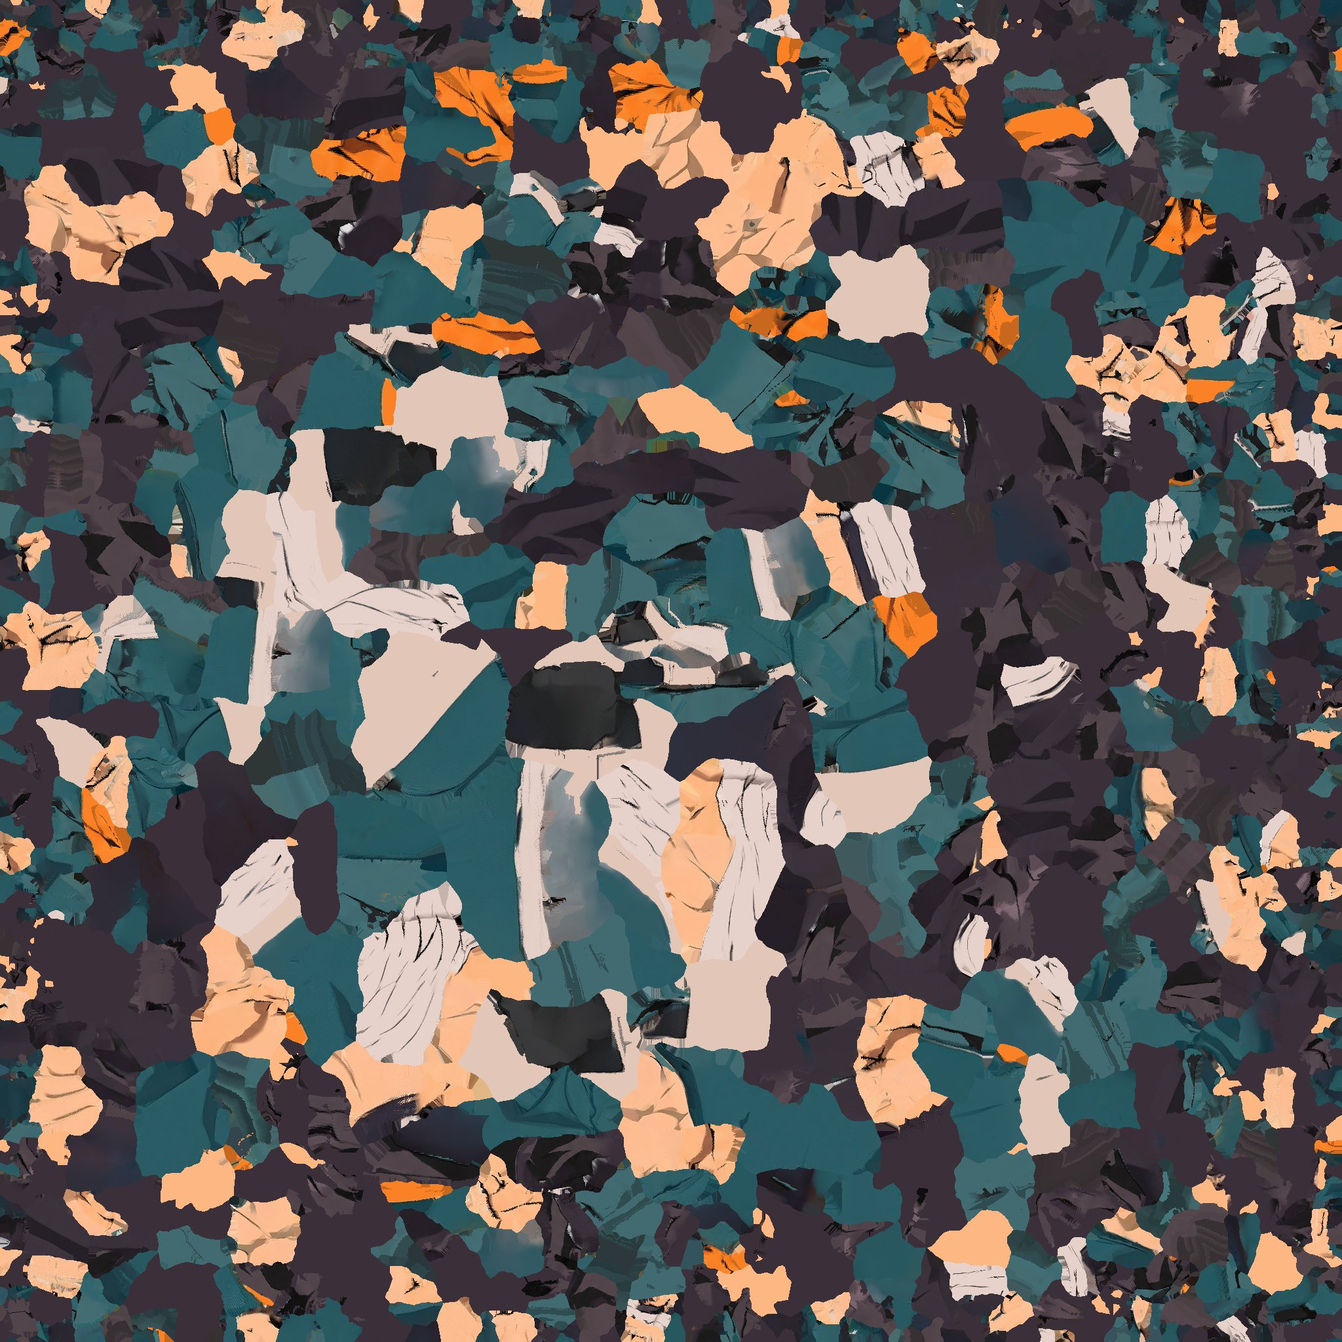
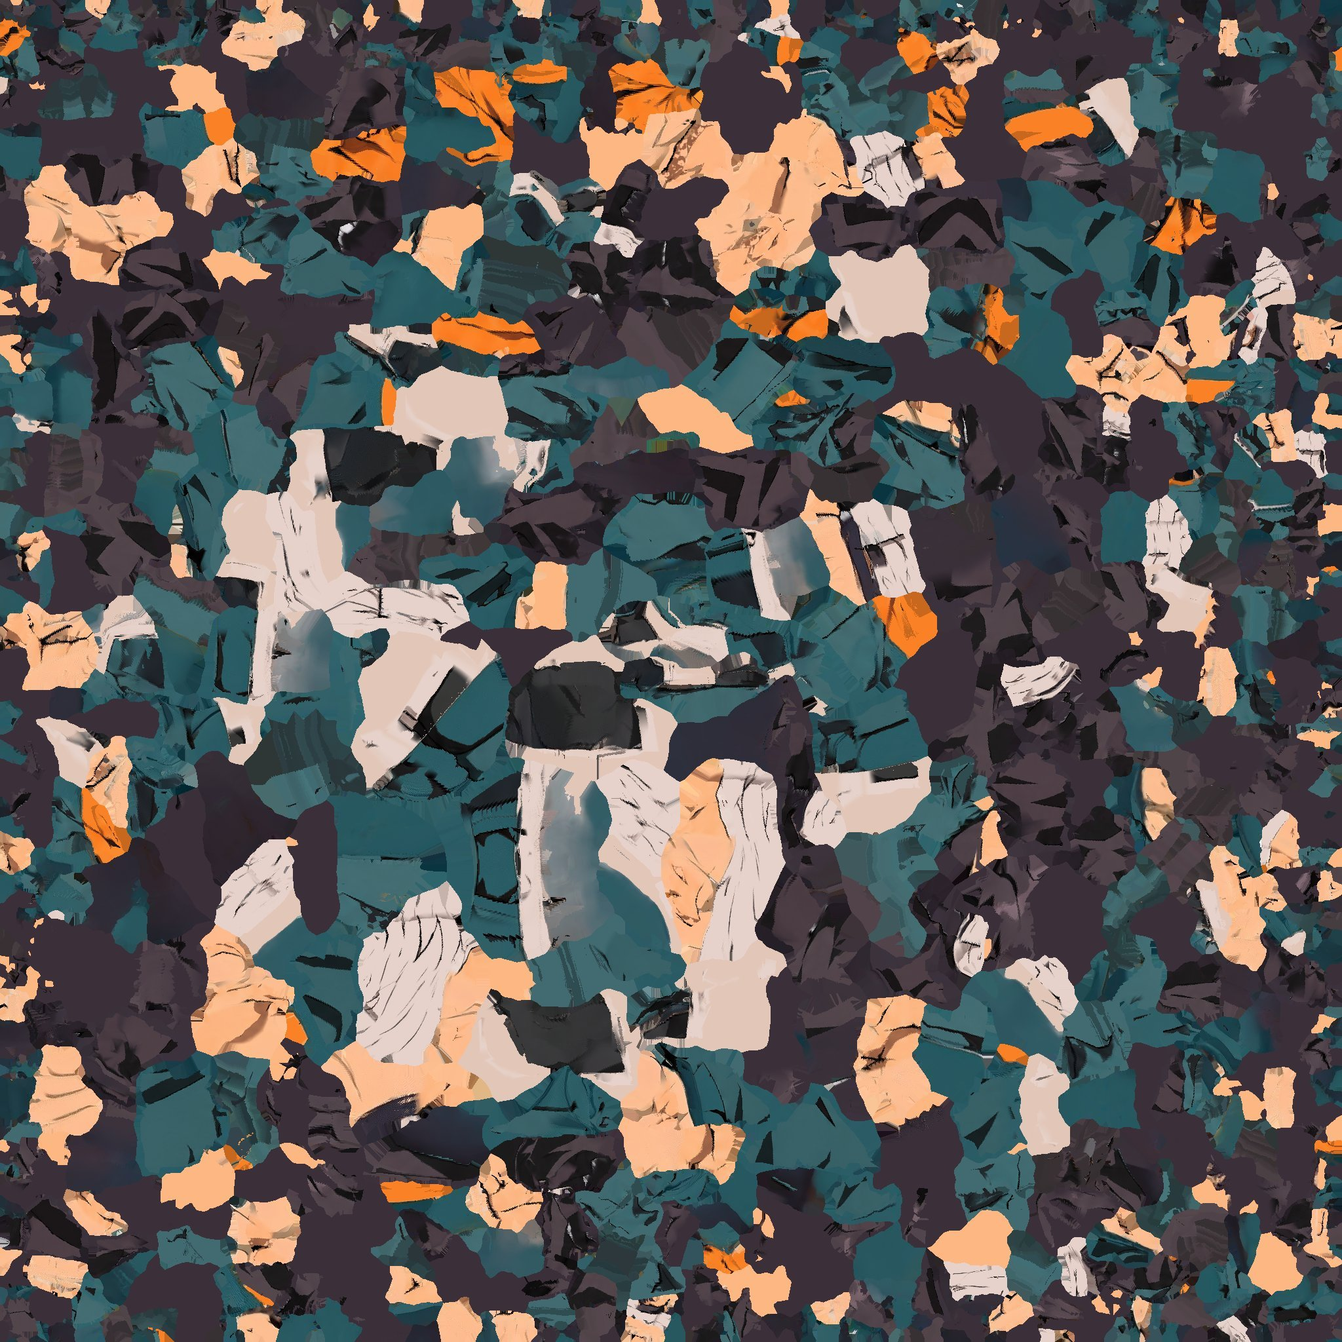
Anteprima di Ren: schiena e fianchi disegnati dai fogli del corpo
tools/paint_views.py (dopo paint_from_drawing.py): la schiena dal foglio
da dietro, i fianchi di pantaloni e stivali dai fogli di tre quarti
delle gambe, i fianchi del gilet da quelli del busto. Cambia solo la
pittura, non la forma; ogni materiale tiene il suo (le righe del foglio
solo dove il foglio mostra lo stesso materiale). Braccia, mani, testa e
fascia in vita restano come prima.

Claude-Session: https://claude.ai/code/session_014XUVKvWBodq3kjfPiKyGRo

diff --git a/tools/paint_views.py b/tools/paint_views.py
@@ -1,0 +1,181 @@
+#!/usr/bin/env python3
+"""Paints Denis's other views of Ren onto the model, after tools/paint_from_drawing.py (the front drawing) (8/11/2026,
+Denis with his body sheets: the rest of the body "disegnato come nelle immagini, senza cambiare proporzioni": only the
+paint changes, never the shape).
+
+usage: python3 tools/paint_views.py PACKAGE_DIR PAINTED.jpg [DEBUG_DIR]
+  PACKAGE_DIR  the tools/meshy_pack.py package (its bind pose: the A-pose of the drawings)
+  PAINTED.jpg  the texture paint_from_drawing.py wrote: painted over in place
+  DEBUG_DIR    (optional) each view's fit: the model's projected outline on the sheet
+
+The views (VIEWS; docs/ref/personaggi): the whole body from behind (ren_retro.png), the trousers and boots from three
+quarters each side (ren_gambe_3viste.png, its side panels), the vest's sides from three quarters (ren_busto_3viste.png;
+not the arms: drawn spread differently from the model's, their lines would land in the wrong places). Each view is the
+bind pose seen orthographically from the direction d = (sin t, 0, cos t) (t = 180: from behind), its right (cos t, 0,
+-sin t) along the sheet's columns: u = cx + s p.right, v = by - s p.y. The back view's scale and offset are fit to the
+back view's silhouette (the most vertices inside it, as the front's); the side views' (t, s, cx, by) were fit once by
+the materials (tools/paint_views.py --fit: the model drawn in its materials, correlated with the panel's) and are kept
+in VIEWS.
+
+A texel takes a view's colour where it faces that view and is seen from it (the triangle in front at its pixel, or one
+of its neighbours), blended in by how much it faces it: the back view where it faces the back (BACK_FACE); a side view
+where neither the front nor the back paints it (the front's and the back's weights, paint_from_drawing.py's and
+BACK_FACE, leave the rest), the side it faces most. Each material keeps its own (the view's colour only where the view
+shows the texel's material, its shades and folds, or one of the view's dark lines on a light material): the views'
+orange tails, light edges or trim never land on the trousers or the boots' teal. Not the head (the new head replaces
+it), the hands (drawn a little differently), the band (the drawing's band is at another height: the front's stays).
+The wraps: their warm white with the view's lines only where they face the view well (as the front's).
+"""
+import json, os, sys
+import numpy as np
+from PIL import Image, ImageDraw
+from scipy import ndimage
+
+REF = os.path.join(os.path.dirname(os.path.abspath(__file__)), '..', 'docs', 'ref', 'personaggi')
+FRONT_FACE, BACK_FACE, BACK_SKIN = (.25, .55), (.25, .55), (.5, .72)
+SIDE_FACE = (.1, .35)
+WRAP_COL, WRAP_LINE, WRAP_FACE = np.array([230., 210, 202]), 8., (.55, .75)
+BAND_Y = (1.08, 1.16)
+LINE_LUM = 45
+OTHER, SKIN, TEAL, DARK, LIGHT, ORANGE = range(6)
+# (name, sheet, panel box (px), theta (deg), scale (px/m), cx, by, part: y range (m), arms too, the materials it paints)
+VIEWS = [('back', 'ren_retro.png', None, 180., None, None, None, (-1., 9.), True, None),
+         ('legs, +x', 'ren_gambe_3viste.png', (0, 0, 500, 950), 30., 650., 267.3, 902.6, (-1., 1.06), False, (DARK, TEAL, LIGHT)),
+         ('legs, -x', 'ren_gambe_3viste.png', (1030, 0, 1536, 950), -30., 650., 242.8, 903.6, (-1., 1.06), False, (DARK, TEAL, LIGHT)),
+         ('vest, +x', 'ren_busto_3viste.png', (0, 0, 520, 795), 47.5, 815.3, 247.1, 1356., (1.02, 9.), False, (TEAL,)),
+         ('vest, -x', 'ren_busto_3viste.png', (1255, 0, 1774, 795), -47.5, 815.3, 260.1, 1356., (1.02, 9.), False, (TEAL,))]
+
+
+def classes(c):
+    """The material of each colour (n x 3): skin (with its shading), the vest's teal, dark (the trousers' purple grey, the
+    boots' black, lines), light (wraps, trim, edges), orange (the sash), other."""
+    r, g, b = c[:, 0], c[:, 1], c[:, 2]; lum = c.mean(1); out = np.full(len(c), OTHER)
+    out[(lum < 110) & (np.abs(r - b) < 40) & (g <= r + 8)] = DARK
+    out[(c.min(1) > 150) & (c.max(1) - c.min(1) < 60)] = LIGHT
+    out[(g > r + 8) & (b > r + 8)] = TEAL
+    out[(r > 110) & (r - b > 35) & (g >= .62 * r) & (c.min(1) <= 150)] = SKIN
+    out[(r > 140) & (r - b > 90) & (g < .62 * r)] = ORANGE
+    return out
+
+
+def load(pkg):
+    name = os.path.basename(os.path.normpath(pkg))
+    m = json.load(open(os.path.join(pkg, name + '.json'))); B = open(os.path.join(pkg, name + '.bin'), 'rb').read(); me = m['mesh']
+    f = lambda a, dt=np.float32: np.frombuffer(B, dt, a[1], a[0])
+    P = f(me['pos']).reshape(-1, 3).astype(np.float64); N = f(me['nor']).reshape(-1, 3).astype(np.float64); UV = f(me['uv']).reshape(-1, 2).astype(np.float64)
+    I = f(me['idx'], np.uint16 if me['verts'] < 65536 else np.uint32).reshape(-1, 3).astype(np.int64)
+    J = f(me['jnt'], np.uint8).reshape(-1, 4); W = f(me['wgt']).reshape(-1, 4)
+    bw = lambda keys: (np.isin(J, [i for i, b in enumerate(m['bones']) if any(k in b['n'] for k in keys)]) * W).sum(1)
+    return (name, P, N, UV, I, bw(('Head',)), bw(('Hand', 'Thumb', 'Index', 'Middle', 'Ring', 'Pinky')), bw(('ForeArm',)),
+            bw(('LeftArm', 'RightArm', 'ForeArm', 'Hand', 'Thumb', 'Index', 'Middle', 'Ring', 'Pinky')))
+
+
+def sheet(path, box):
+    D = np.asarray(Image.open(path).convert('RGB')).astype(np.float64)
+    bg = D[5:40, 5:40].reshape(-1, 3).mean(0)
+    if box: x0, y0, x1, y1 = box; D = D[y0:y1, x0:x1]
+    mask = ndimage.binary_opening(np.abs(D - bg).sum(2) > 30, iterations=1)
+    lab, n = ndimage.label(mask); sz = ndimage.sum(mask, lab, range(1, n + 1)); mask = np.isin(lab, np.nonzero(sz > 2000)[0] + 1)
+    _, (iy, ix) = ndimage.distance_transform_edt(~mask, return_indices=True)
+    return D, mask, D[iy, ix]   # (outside the figure: the nearest drawn colour)
+
+
+def fit_back(P, mask):
+    """The back view: (share inside, scale px/m, cx, by), the most vertices inside its silhouette."""
+    ys, xs = np.nonzero(mask); feet, top, mid = ys.max(), ys.min(), (xs.min() + xs.max()) / 2
+    s0 = (feet - top) / (P[:, 1].max() - P[:, 1].min()); best = None; H, Wd = mask.shape
+    for ds in np.arange(-.04, .041, .01):
+        for dx in range(-12, 13, 3):
+            for dy in range(-12, 13, 3):
+                s = s0 * (1 + ds); u, v = mid + dx - P[:, 0] * s, feet + dy - P[:, 1] * s
+                score = mask[np.clip(v.round().astype(int), 0, H - 1), np.clip(u.round().astype(int), 0, Wd - 1)].mean()
+                if best is None or score > best[0]: best = (score, s, mid + dx, feet + dy)
+    return best
+
+
+def axes(theta):
+    t = np.radians(theta); return np.array([np.cos(t), 0, -np.sin(t)]), np.array([np.sin(t), 0, np.cos(t)])
+
+
+def seen_ids(P, I, sel, u, v, depth, H, Wd):
+    """The triangle in front at each pixel (-1: none): the selected triangles drawn far to near."""
+    idimg = Image.new('RGB', (Wd, H), (0, 0, 0)); dr = ImageDraw.Draw(idimg)
+    idx = np.nonzero(sel)[0]
+    for k in idx[np.argsort(depth[I[idx]].mean(1))]:
+        c = k + 1; dr.polygon([(u[q], v[q]) for q in I[k]], fill=(c & 255, (c >> 8) & 255, (c >> 16) & 255))
+    a = np.asarray(idimg).astype(np.int64); return a[..., 0] + (a[..., 1] << 8) + (a[..., 2] << 16) - 1
+
+
+def main(pkg, painted, debug=None):
+    name, P, N, UV, I, HEADW, HANDW, FOREW, ARMW = load(pkg)
+    TEX = np.asarray(Image.open(painted).convert('RGB')).astype(np.float64); TS = TEX.shape[0]
+    # the texels: their triangle, barycentrics, 3D point and normal
+    uvimg = Image.new('RGB', (TS, TS), (0, 0, 0)); dr = ImageDraw.Draw(uvimg)
+    for k, t in enumerate(I):
+        c = k + 1; dr.polygon([(UV[q, 0] * TS, UV[q, 1] * TS) for q in t], fill=(c & 255, (c >> 8) & 255, (c >> 16) & 255))
+    ua = np.asarray(uvimg).astype(np.int64); tid = ua[..., 0] + (ua[..., 1] << 8) + (ua[..., 2] << 16) - 1
+    ys, xs = np.nonzero(tid >= 0); ks = tid[ys, xs]
+    A = UV[I[ks, 0]] * TS; Bv = UV[I[ks, 1]] * TS; C = UV[I[ks, 2]] * TS; px = np.stack([xs + .5, ys + .5], 1)
+    v0 = Bv - A; v1 = C - A; v2 = px - A
+    d00 = (v0 * v0).sum(1); d01 = (v0 * v1).sum(1); d11 = (v1 * v1).sum(1); d20 = (v2 * v0).sum(1); d21 = (v2 * v1).sum(1)
+    den = d00 * d11 - d01 * d01; den[np.abs(den) < 1e-12] = 1e-12
+    bv = (d11 * d20 - d01 * d21) / den; bw_ = (d00 * d21 - d01 * d20) / den
+    bary = np.clip(np.stack([1 - bv - bw_, bv, bw_], 1), 0, 1); bary /= bary.sum(1, keepdims=True)
+    pos = (P[I[ks]] * bary[..., None]).sum(1); nor = (N[I[ks]] * bary[..., None]).sum(1); nor /= np.maximum(np.linalg.norm(nor, axis=1, keepdims=True), 1e-9)
+    from collections import defaultdict
+    vt = defaultdict(set)
+    for k, t in enumerate(I):
+        for q in t: vt[q].add(k)
+    sm = lambda x, a, b: (lambda t: t * t * (3 - 2 * t))(np.clip((x - a) / (b - a), 0, 1))
+    at = lambda W_: (W_[I[ks]] * bary).sum(1)
+    hw, hdw, fw, aw = at(HEADW), at(HANDW), at(FOREW), at(ARMW)
+    skip = (hw > .5) | (hdw > .5) | ((pos[:, 1] > BAND_Y[0]) & (pos[:, 1] < BAND_Y[1]))
+    t0 = TEX[ys, xs]; ct = classes(t0); wrap = (np.abs(t0 - WRAP_COL).max(1) < 30) & ((fw > .5) | (pos[:, 1] < .32))
+    skt = ct == SKIN
+    out = TEX.copy(); w_front = sm(nor[:, 2], *FRONT_FACE); w_back = sm(-nor[:, 2], *BACK_FACE)
+    side_best = np.full(len(ks), -1.); side_col = np.zeros((len(ks), 3)); side_w = np.zeros(len(ks))
+    for vname, sh, box, theta, s, cx, by, (ylo, yhi), arms, mats in VIEWS:
+        D, mask, Dfill = sheet(os.path.join(REF, sh), box); H, Wd = mask.shape
+        r, d = axes(theta)
+        if s is None:
+            score, s, cx, by = fit_back(P, mask) if theta == 180 else (None,) * 4
+            print('%s: fit %.1f%% of the vertices inside, %.1f px/m' % (vname, 100 * score, s))
+        u, v = cx + s * (P @ r), by - s * P[:, 1]; depth = P @ d
+        part_t = (P[I][:, :, 1] > ylo).any(1) & (P[I][:, :, 1] < yhi).any(1) & ((ARMW[I] < .5).all(1) | arms)
+        seen = seen_ids(P, I, np.ones(len(I), bool) if theta == 180 else part_t | ((ARMW[I] >= .5).any(1)), u, v, depth, H, Wd)
+        if debug:
+            sil = seen >= 0; edge = sil & ~ndimage.binary_erosion(sil, iterations=2); o = D.copy(); o[edge] = (255, 0, 0)
+            os.makedirs(debug, exist_ok=True); Image.fromarray(o.astype(np.uint8)).save(os.path.join(debug, vname.replace(', ', '_').replace('+', 'p').replace('-', 'm') + '.png'))
+        pu = cx + s * (pos @ r); pv = by - s * pos[:, 1]
+        pui = np.clip(pu.round().astype(int), 0, Wd - 1); pvi = np.clip(pv.round().astype(int), 0, H - 1)
+        inside = (pu >= 0) & (pu < Wd) & (pv >= 0) & (pv < H)
+        fid = seen[pvi, pui]; vis = (fid == ks) & inside
+        for j in np.nonzero(~vis & (fid >= 0) & inside)[0]:
+            if fid[j] in vt[I[ks[j], 0]] or fid[j] in vt[I[ks[j], 1]] or fid[j] in vt[I[ks[j], 2]]: vis[j] = True
+        face = nor @ d
+        inpart = (pos[:, 1] > ylo) & (pos[:, 1] < yhi) & ((aw < .5) | arms) & (np.isin(ct, mats) if mats else True)
+        col = Dfill[pvi, pui]; cs = classes(col)
+        same = (ct == cs) | ((cs == DARK) & (col.mean(1) < LINE_LUM) & np.isin(ct, (SKIN, TEAL, ORANGE)))
+        acc = np.zeros((TS, TS)); cnt = np.zeros((TS, TS)); acc[ys, xs] = same; cnt[ys, xs] = 1
+        accs = ndimage.gaussian_filter(acc, 1.) / np.maximum(ndimage.gaussian_filter(cnt, 1.), 1e-6)   # (no speckle at the materials' edges)
+        keep_ = np.where(wrap, 1., np.clip((accs[ys, xs] - .5) * 3 + .5, 0, 1))
+        keepl = np.clip((WRAP_COL.mean() - col.mean(1) - WRAP_LINE) / (WRAP_COL.mean() - 110), 0, 1) * sm(face, *WRAP_FACE)
+        new = np.where(wrap[:, None], WRAP_COL * (1 - keepl[:, None]) + col * keepl[:, None], col)
+        if theta == 180:
+            w = sm(face, *BACK_FACE) * vis * ~skip * keep_; w[skt] *= sm(face[skt], *BACK_SKIN)
+            out[ys, xs] = out[ys, xs] * (1 - w[:, None]) + new * w[:, None]
+            print('%s: %d texels painted (%d facing it well); %d left as they were (another material there)' % (
+                vname, int((w > 0).sum()), int((w > .5).sum()), int((~same & (sm(face, *BACK_FACE) * vis > .5)).sum())))
+        else:   # (the side it faces most, where neither the front nor the back paints)
+            w = np.clip(1 - w_front - w_back, 0, 1) * sm(face, *SIDE_FACE) * vis * inpart * ~skip * keep_
+            better = (face > side_best) & (w > 0)
+            side_best[better] = face[better]; side_col[better] = new[better]; side_w[better] = w[better]
+            print('%s: %d texels it sees best (%d of them well)' % (vname, int(better.sum()), int((better & (w > .5)).sum())))
+    sw = side_w[:, None]; out[ys, xs] = out[ys, xs] * (1 - sw) + side_col * sw
+    print('sides: %d texels painted (%d well)' % (int((side_w > 0).sum()), int((side_w > .5).sum())))
+    Image.fromarray(np.clip(out, 0, 255).round().astype(np.uint8)).save(painted, quality=85, optimize=True)   # (as paint_from_drawing.py)
+
+
+if __name__ == '__main__':
+    if len(sys.argv) not in (3, 4): sys.exit(__doc__)
+    main(*sys.argv[1:])

diff --git a/docs/HANDOFF.md b/docs/HANDOFF.md
@@ -145,6 +145,7 @@ Cose notate nelle revisioni; non costruirle finché Denis non lo chiede.
   - Capelli sul viso (8/11, versione 39; Denis: "ora fai come si deve i capelli", poi "intendevo i capelli in faccia, quelli sopra vanno bene così"): confrontata di fronte la testa col foglio (pixel di capelli nel foglio dove la testa mostrava pelle: 13,5 cm², ora 4 cm²), alla frangia dal foglio mancavano le ciocche che le regole della maschera scartavano: la parte bassa della ciocca lunga tra gli occhi (scende fino al ponte del naso, come nel foglio), la ciocca sopra la metà esterna del sopracciglio destro e quelle sopra la fine del sopracciglio sinistro. Ora `ren_fringe.py` le prende da poligoni messi a mano sul foglio (`EXTRA_LOCKS`, in pixel della vista di fronte; dentro, solo i colori dei capelli del foglio). La fronte sotto le ciocche (vista di lato, nello spazio tra le ciocche e la pelle) è dipinta col nero d'ombra dei capelli (`UNDER_LOCKS`), non più pelle. Corretta anche una macchia color pelle a V sulla nuca: la pittura della fronte dal foglio prendeva anche i triangoli del retro della testa visti attraverso il buco tra le sopracciglia (`BACK`: niente più di 1 cm dietro il viso). Provati e scartati: i capelli sopra coi 3 toni piatti del foglio calcolati dalla forma (ombre sotto le ciocche e luce dall'alto, `ren_hair.py` tenuto fuori dal repository: Denis voleva solo quelli sul viso); poligoni per le ciocche delle tempie giù lungo le guance (il cuscinetto, piatto, di tre quarti diventava una striscia). Cuscinetto: 5.648 triangoli (prima 3.508); tempo per fotogramma in software 59,6 ms contro 60,0 della versione 38 (nel rumore, 6 misure alternate).
   - Viso di lato omogeneo (8/11, versione 40; Denis sulla 39, con le zone cerchiate: "di lato vedo che il viso si deforma, non va bene, deve essere omogeneo"): di tre quarti la sagoma della guancia lontana aveva una gobba e una tacca accanto all'occhio (con il contorno nero a scalini), e sulle tempie c'erano strisce. Causa: le ciocche che Meshy aveva steso piatte sulle tempie erano state affondate di 12 mm sotto la pelle (`temple_locks`, notte dell'8/11), e i triangoli tra i punti affondati e quelli rimasti erano lunghi fino a 4 cm e ripiegati verso l'interno. Ora `temple_smooth()` in `ren_head.py` (`TEMPLE_SMOOTH`): i punti di quelle ciocche e quelli intorno (2 giri di vicini dentro `TEMPLE` allargato di 8 mm, `TEMPLE_GROW`, `TEMPLE_RINGS`; non gli occhi) sono rimessi con un riempimento biarmonico sulla mesh a partire dai punti intorno, che restano fermi: la tempia è una superficie liscia che si raccorda con guancia, orecchio e capelli, senza pieghe; la sua pittura resta pelle (`temples()`). Provato e scartato: allargare la zona fino al sopracciglio dietro la coda dell'occhio (`TEMPLE_UP`): le ciocche che pendono davanti alla tempia venivano dipinte a pezzi color pelle. Stessi vertici; tempo per fotogramma 61,3 ms contro 62,5 della versione 39 (nel rumore).
   - Colletto dietro il collo (8/11, versione 41; Denis: "il suo vestito da dietro il collo si stacca"): il bordo basso del colletto della testa nuova sta in media 1 cm sopra il gilet del corpo, e sotto la testa i triangoli del corpo sono nascosti: dall'alto e da dietro, fra i due, si vedeva dentro il corpo (un buco nero sotto il colletto) e la fascia bassa del colletto, frastagliata, nel teal della testa, stava sul gilet. Ora `tools/ren_collar.py` (chiamato da `ren_head.py` alla fine): una gonnellina dal bordo basso della testa (sotto 1,50 m) al punto più vicino del gilet rimasto, 1,5 mm sotto la sua superficie (dove c'è il gilet lo copre, dove c'è un buco lo chiude), in un colore piatto (`SKIRT_RGB`, il teal del gilet come lo mostra la sua luce cartoon: la testa ha luce piatta) preso da un blocco della texture fuori da ogni pezzo (dipinto dopo il riempimento dei bordi; abbastanza grande che il JPEG non ne cambi il colore); e i texel della testa a meno di 1 cm dal gilet prendono la pittura del gilet in quel punto (`<nome>_painted.jpg`). Provato e scartato: rimostrare i triangoli del colletto vecchio sotto il buco (199: tutti sporgevano dal colletto nuovo). +240 triangoli; tempo per fotogramma nel rumore (58,3 ms contro 61,3, 4 misure).
+  - Corpo "disegnato" come i fogli (8/11, versione 42; Denis coi fogli di busto, gambe e schiena: "rendere il resto del corpo disegnato come nelle immagini senza cambiare proporzioni"): cambia solo la pittura, mai la forma. `tools/paint_views.py` (dopo `paint_from_drawing.py`, prima di rifare la testa: vedi `docs/meshy/REN.md`): (1) la schiena dal foglio da dietro (`ren_retro.png`: gilet con le sue pieghe e lo spacco in basso, pantaloni con le pieghe a V, muscoli delle braccia), allineato sulla sagoma come la vista di fronte (91,7% dei vertici dentro); (2) i fianchi di pantaloni e stivali dai fogli di tre quarti delle gambe (`ren_gambe_3viste.png`, 30° per lato) e i fianchi del gilet da quelli del busto (`ren_busto_3viste.png`, 47,5°), dove né la vista di fronte né quella da dietro arrivano; allineati una volta per tutte sui materiali (il modello disegnato nei suoi colori confrontato col foglio) e scritti in `VIEWS`. Regola di sicurezza: ogni materiale tiene il suo (il colore del foglio solo dove il foglio mostra lo stesso materiale, oppure le sue righe nere su pelle, gilet e fascia): così le code arancioni e i bordi chiari del foglio non finiscono sui pantaloni, il bordino degli stivali non va sul teal. Le viste di tre quarti dipingono solo il loro materiale (il gilet solo sul gilet; pantaloni, stivali e fasce sulle gambe): le braccia di tre quarti nel foglio sono in un'altra posa, le loro righe sarebbero finite nel posto sbagliato (provato: macchie nere sulle spalle). Niente sulla testa, sulle mani, sulla fascia in vita. Provato e scartato: allineare le viste di tre quarti solo sulla sagoma (trovava profili sbagliati). Tempo per fotogramma: solo la texture cambia (61,8 ms contro 67,6 della versione 41, nel rumore).
   - `tools/paint_head.py` (pittura della testa dalle 3 viste) è provato ma non usato: proiettato, il disegno si sdoppiava sugli occhi; la texture di Meshy è più pulita.
   - Tempo per fotogramma nell'anteprima, in software: 63,0 ms contro 57,7 della versione 16 (+9%, media di 6 misure alternate; la testa ha 14.000 triangoli più il suo contorno). Una testa da 12.000 triangoli avrebbe i capelli più spigolosi dietro: scartata. Il gioco non cambia (look spento).
 - `paint_from_drawing.py` ora riempie anche gli spazi tra i pezzi della texture col colore del pezzo vicino: i vecchi colori lì si vedevano come crepe lungo le cuciture.
@@ -156,4 +157,4 @@ Cose notate nelle revisioni; non costruirle finché Denis non lo chiede.
 - Per dopo (annotate, non fatte): i fogli del corpo che Denis ha mandato l'8/11 (`docs/ref/personaggi/ren_busto_3viste.png`, `ren_gambe_3viste.png`: destra, fronte, sinistra; `ren_retro.png`: tutto il corpo da dietro; il foglio della testa che ha rimandato è identico a `ren_testa_3viste.png`) per rifare o ridipingere il corpo dai lati e da dietro (fasce con il polsino scuro, stivali, pantaloni, code della fascia arancione), oggi dipinto solo dalla vista di fronte di `ren.png`; l'ombra nera sotto il mento come nel foglio (una V spessa sul collo, sotto la mascella; nel foglio c'è in tutte e tre le viste), da proporre a Denis prima di farla; in guardia la testa alzata di 20° invece di 12° (`headUp` del look: provato in una copia, con 20° si vedono entrambi gli occhi sopra il pugno, a 28° sembra guardare in alto; è una scelta di posa, da decidere con Denis); stesso metodo delle 3 viste per Kael, se Denis fa il suo foglio; se Denis vuole punte dei capelli ancora più lunghe, un'altra prova Meshy (30 crediti; alleggerire il modello non le arrotonda: a 60.000 e a 16.000 triangoli la sagoma è la stessa).
 
 ## Prossimo passo
-Denis guarda l'anteprima (versione 41: il colletto unito al gilet dietro il collo; il viso approvato: "finalmente la faccia è buona") con la testa nuova dal suo foglio, le tempie pulite, il colletto rigido, le fasce e gli stivali come il disegno. Se gli piace: accendere il look nel gioco con i 3 passi scritti sopra ("Per accendere il look nel gioco"), test, ripubblicare gioco e app. Poi: Kael di Meshy (modello dal suo disegno + scheletro; le animazioni si riusano), mostrando prima saldo e costo.
+Denis guarda l'anteprima (versione 42: il colletto unito al gilet dietro il collo, schiena e fianchi disegnati dai suoi fogli; il viso approvato: "finalmente la faccia è buona") con la testa nuova dal suo foglio, le tempie pulite, il colletto rigido, le fasce e gli stivali come il disegno. Se gli piace: accendere il look nel gioco con i 3 passi scritti sopra ("Per accendere il look nel gioco"), test, ripubblicare gioco e app. Poi: Kael di Meshy (modello dal suo disegno + scheletro; le animazioni si riusano), mostrando prima saldo e costo.

diff --git a/docs/meshy/REN.md b/docs/meshy/REN.md
@@ -67,4 +67,6 @@ Rifarla (i GLB stanno in `meshy/meshy_output/20261108_011130_voidrise-ren-testa_
    posizione sul corpo, ossa, occhi a filo del viso, frangia vicina al viso, colori del foglio; scrive `ren_head.json`,
    `.bin`, `.jpg` (i punti di riferimento di ogni busto stanno in `BUSTS`).
 3. `python3 tools/paint_from_drawing.py assets/ren docs/ref/personaggi/ren.png viewer_assets/ren/ren_painted.jpg` (pulisce
-   il petto sotto il colletto nuovo), poi `bash mk.sh`.
+   il petto sotto il colletto nuovo), poi `python3 tools/paint_views.py assets/ren viewer_assets/ren/ren_painted.jpg` (la schiena dal foglio da dietro,
+   i fianchi di gilet, pantaloni e stivali dai fogli di tre quarti), poi di nuovo il passo 2 (il colletto prende la
+   pittura del gilet), poi `bash mk.sh`.
